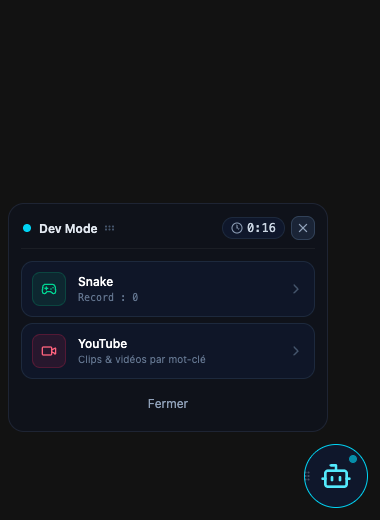
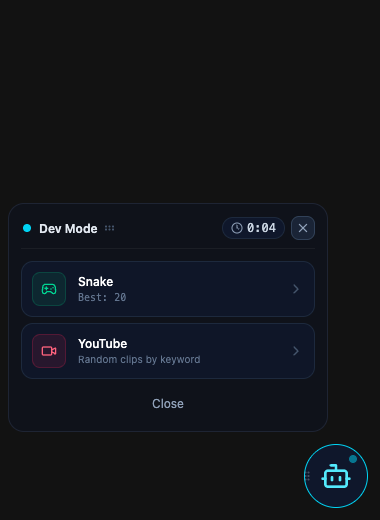
feat: translate all UI to English and simplify Tray menu to Quit only

diff --git a/src/components/YouTubePlayer.tsx b/src/components/YouTubePlayer.tsx
@@ -116,7 +116,7 @@ export const YouTubePlayer: React.FC<YouTubePlayerProps> = () => {
             type="text"
             value={query}
             onChange={(e) => setQuery(e.target.value)}
-            placeholder="Mot-clé vidéo (ex: lofi, chat, gaming)..."
+            placeholder="Search keyword (e.g. lofi, cats, gaming)..."
             className="w-full py-1.5 pl-8 pr-14 rounded-xl bg-slate-900 border border-slate-700/80 focus:border-slate-500 text-xs text-white placeholder:text-slate-500 focus:outline-none transition-all"
           />
           <Search className="w-3.5 h-3.5 text-slate-400 absolute left-2.5 pointer-events-none" />
@@ -151,7 +151,7 @@ export const YouTubePlayer: React.FC<YouTubePlayerProps> = () => {
         </div>
       </form>
 
-      {/* Raccourcis / Tags rapides */}
+      {/* Preset Topics */}
       <div className="w-full flex items-center space-x-1.5 mb-2 overflow-x-auto no-scrollbar py-0.5">
         {PRESET_TOPICS.map((preset) => {
           const isSelected = activeQuery === preset.query;
@@ -174,7 +174,7 @@ export const YouTubePlayer: React.FC<YouTubePlayerProps> = () => {
         })}
       </div>
 
-      {/* Lecteur Iframe YouTube (Muet par défaut) */}
+      {/* YouTube Iframe Player (Muted by default) */}
       <div className="w-full aspect-video rounded-xl overflow-hidden bg-black border border-slate-800 relative flex items-center justify-center">
         {videoId ? (
           <iframe
@@ -188,7 +188,7 @@ export const YouTubePlayer: React.FC<YouTubePlayerProps> = () => {
         ) : (
           <div className="flex flex-col items-center justify-center text-slate-500 space-y-1">
             <Video className="w-8 h-8 text-slate-600" />
-            <span className="text-xs">Tape un mot-clé</span>
+            <span className="text-xs">Type a keyword</span>
           </div>
         )}
 
@@ -198,27 +198,27 @@ export const YouTubePlayer: React.FC<YouTubePlayerProps> = () => {
           </div>
         )}
 
-        {/* Bouton Muet / Activer le son discret en bas à droite du lecteur */}
+        {/* Mute / Unmute Button */}
         <button
           onClick={toggleSound}
           className="absolute bottom-2 right-2 p-1.5 rounded-lg bg-slate-900/80 hover:bg-slate-800 border border-slate-700 text-slate-300 hover:text-white transition-all cursor-pointer shadow-md active:scale-90 flex items-center space-x-1 text-[10px]"
-          title={isMuted ? "Activer le son" : "Couper le son"}
+          title={isMuted ? "Unmute sound" : "Mute sound"}
         >
           {isMuted ? (
             <>
               <VolumeX className="w-3.5 h-3.5 text-slate-400" />
-              <span className="text-[9px] text-slate-400">Muet</span>
+              <span className="text-[9px] text-slate-400">Muted</span>
             </>
           ) : (
             <>
               <Volume2 className="w-3.5 h-3.5 text-emerald-400" />
-              <span className="text-[9px] text-emerald-300">Son actif</span>
+              <span className="text-[9px] text-emerald-300">Sound on</span>
             </>
           )}
         </button>
       </div>
 
-      {/* Contrôle rapide sous le lecteur */}
+      {/* Controls below player */}
       <div className="w-full mt-2 flex items-center justify-between px-1 text-[10px] text-slate-500">
         <span className="truncate max-w-[190px] text-slate-400 font-mono">
           {activeQuery}
@@ -228,10 +228,10 @@ export const YouTubePlayer: React.FC<YouTubePlayerProps> = () => {
           onClick={handleNextVideo}
           disabled={isLoading}
           className="flex items-center space-x-1 text-slate-400 hover:text-slate-200 transition-colors cursor-pointer disabled:opacity-50"
-          title="Tirer une autre vidéo au sort"
+          title="Pick another random video"
         >
           <RotateCcw className={`w-3 h-3 ${isLoading ? 'animate-spin' : ''}`} />
-          <span>Suivant</span>
+          <span>Random video</span>
         </button>
       </div>
     </div>

diff --git a/src/components/MiniGame.tsx b/src/components/MiniGame.tsx
@@ -57,7 +57,7 @@ export const MiniGame: React.FC<MiniGameProps> = ({
                 setView('hub');
               }}
               className="p-1 rounded-lg bg-slate-800/80 hover:bg-slate-700 border border-slate-700 text-slate-300 hover:text-white transition-all cursor-pointer"
-              title="Menu"
+              title="Back"
             >
               <ArrowLeft className="w-3.5 h-3.5" />
             </button>
@@ -67,7 +67,7 @@ export const MiniGame: React.FC<MiniGameProps> = ({
 
           <div className="flex items-center space-x-1.5">
             <span className="text-xs font-semibold text-slate-200">
-              {startPayload?.model || "IA"}
+              {startPayload?.model || "AI"}
             </span>
             <GripHorizontal className="w-3 h-3 text-slate-600" />
           </div>
@@ -85,14 +85,14 @@ export const MiniGame: React.FC<MiniGameProps> = ({
               onClose();
             }}
             className="p-1 rounded-lg bg-slate-800/80 hover:bg-slate-700 border border-slate-700 text-slate-400 hover:text-white transition-all cursor-pointer active:scale-95"
-            title="Fermer"
+            title="Close"
           >
             <X className="w-3.5 h-3.5" />
           </button>
         </div>
       </div>
 
-      {/* VUE 1 : MENU ACTIVITÉS */}
+      {/* VUE 1 : ACTIVITY HUB */}
       {view === 'hub' && (
         <div className="animate-in fade-in duration-150 space-y-1.5 py-0.5">
           {/* Option Snake */}
@@ -109,7 +109,7 @@ export const MiniGame: React.FC<MiniGameProps> = ({
                   Snake
                 </div>
                 <div className="text-[10px] text-slate-500 font-mono">
-                  Record : {snakeHighScore}
+                  Best: {snakeHighScore}
                 </div>
               </div>
             </div>
@@ -130,19 +130,19 @@ export const MiniGame: React.FC<MiniGameProps> = ({
                   YouTube
                 </div>
                 <div className="text-[10px] text-slate-500">
-                  Clips & vidéos par mot-clé
+                  Random clips by keyword
                 </div>
               </div>
             </div>
             <ChevronRight className="w-4 h-4 text-slate-600 group-hover:text-rose-400 transition-colors" />
           </button>
 
-          {/* Bouton Fermer */}
+          {/* Close button */}
           <button
             onClick={onClose}
             className="w-full mt-1 py-1.5 rounded-lg text-xs text-slate-400 hover:text-slate-200 transition-colors cursor-pointer text-center"
           >
-            Fermer
+            Close
           </button>
         </div>
       )}

diff --git a/src/components/SuccessBanner.tsx b/src/components/SuccessBanner.tsx
@@ -16,27 +16,27 @@ export const SuccessBanner: React.FC<SuccessBannerProps> = ({ stats, stopPayload
         <button
           onClick={onClose}
           className="absolute top-2.5 right-2.5 p-1 rounded-lg bg-slate-800/80 hover:bg-slate-700 border border-slate-700 text-slate-400 hover:text-white transition-all cursor-pointer"
-          title="Fermer"
+          title="Close"
         >
           <X className="w-3.5 h-3.5" />
         </button>
       )}
 
       <div className="flex items-center space-x-2.5 mb-2 pr-6">
-        <div className="p-1.5 rounded-lg bg-emerald-500/20 text-emerald-400 border border-emerald-500/30">
+        <div className="p-1.5 rounded-lg bg-emerald-500/10 text-emerald-400 border border-emerald-500/20">
           <CheckCircle2 className="w-5 h-5" />
         </div>
         <div>
           <h3 className="text-xs font-bold text-emerald-300">
-            Prêt
+            Ready
           </h3>
           <p className="text-[11px] text-slate-400 truncate max-w-[190px]">
-            {stopPayload?.summary || "Réponse disponible."}
+            {stopPayload?.summary || "AI response is ready."}
           </p>
         </div>
       </div>
 
-      <div className="p-2.5 rounded-xl bg-slate-900/80 border border-emerald-500/20 flex items-center justify-between">
+      <div className="p-2.5 rounded-xl bg-slate-900 border border-slate-800 flex items-center justify-between">
         <div>
           <span className="text-[10px] uppercase font-bold text-slate-500 block">Score</span>
           <span className="text-base font-bold text-emerald-300">
@@ -45,13 +45,13 @@ export const SuccessBanner: React.FC<SuccessBannerProps> = ({ stats, stopPayload
         </div>
 
         {isNewHighScore ? (
-          <div className="flex items-center space-x-1 px-2 py-0.5 rounded-md bg-amber-500/20 border border-amber-400/30 text-amber-300 text-[11px] font-bold">
+          <div className="flex items-center space-x-1 px-2 py-0.5 rounded-md bg-amber-500/10 border border-amber-400/20 text-amber-300 text-[11px] font-bold">
             <Trophy className="w-3 h-3 text-amber-400" />
-            <span>Nouveau Record</span>
+            <span>New Best</span>
           </div>
         ) : (
           <span className="text-[11px] text-slate-400 font-mono">
-            Record: {stats.highScore}
+            Best: {stats.highScore}
           </span>
         )}
       </div>

diff --git a/src/components/SnakeGame.tsx b/src/components/SnakeGame.tsx
@@ -242,7 +242,7 @@ export const SnakeGame: React.FC = () => {
         {isGameOver && (
           <div className="absolute inset-0 bg-slate-950/90 flex flex-col items-center justify-center p-2 text-center animate-in fade-in">
             <span className="text-xs font-bold text-rose-400 mb-0.5 uppercase tracking-wider">
-              Fin de partie
+              Game Over
             </span>
             <span className="text-xs text-slate-400 mb-2">{score} pts</span>
             <button
@@ -250,15 +250,15 @@ export const SnakeGame: React.FC = () => {
               className="flex items-center space-x-1 px-2.5 py-1 rounded-lg bg-slate-800 hover:bg-slate-700 border border-slate-700 text-slate-200 font-medium text-xs cursor-pointer transition-all active:scale-95"
             >
               <RefreshCw className="w-3 h-3" />
-              <span>Rejouer</span>
+              <span>Play Again</span>
             </button>
           </div>
         )}
       </div>
 
-      {/* Contrôles tactiles / souris */}
+      {/* Touch / Mouse controls */}
       <div className="mt-2 flex items-center justify-between w-full px-1">
-        <span className="text-[10px] text-slate-500 font-mono">Flèches / ZQSD</span>
+        <span className="text-[10px] text-slate-500 font-mono">Arrows / WASD</span>
 
         <div className="grid grid-cols-3 gap-1 w-20">
           <div />

diff --git a/src/hooks/useWaitMate.ts b/src/hooks/useWaitMate.ts
@@ -61,7 +61,7 @@ export function useWaitMate() {
   // Déclencher le début d'une session IA
   const handleStartAi = useCallback((payload?: StartPayload) => {
     if (successTimeoutRef.current) clearTimeout(successTimeoutRef.current);
-    setStartPayload(payload || { prompt: "Génération en cours...", model: "IA" });
+    setStartPayload(payload || { prompt: "Generating response...", model: "AI" });
     setStopPayload(null);
     setMood('active');
     updateWindowMode('active');

diff --git a/src/components/CompanionAvatar.tsx b/src/components/CompanionAvatar.tsx
@@ -47,7 +47,7 @@ export const CompanionAvatar: React.FC<CompanionAvatarProps> = ({
         onMouseDown={handleMouseDown}
         onMouseUp={handleMouseUp}
         className="relative flex items-center justify-center cursor-grab active:cursor-grabbing p-1"
-        title="Glisser pour déplacer • Cliquer pour ouvrir"
+        title="Drag to move • Click to open"
       >
         {/* Corps du compagnon (sans halo, sans bounce) */}
         <div

diff --git a/src-tauri/src/lib.rs b/src-tauri/src/lib.rs
@@ -2,12 +2,11 @@ mod server;
 mod watcher;
 
 use std::sync::atomic::Ordering;
-use server::{StartPayload, StopPayload};
 use watcher::WatcherState;
 use tauri::{
     menu::{Menu, MenuItem},
     tray::TrayIconBuilder,
-    Emitter, LogicalPosition, LogicalSize, Manager, State, WebviewWindow,
+    LogicalPosition, LogicalSize, Manager, State, WebviewWindow,
 };
 
 #[tauri::command]
@@ -262,22 +261,18 @@ pub fn run() {
                 }
             }
 
-            // 4. Masquer l'icône du Dock macOS (Mode barre des menus / accessoire flottant)
+            // 4. Hide from macOS Dock (Accessory Menu Bar companion)
             #[cfg(target_os = "macos")]
             app.set_activation_policy(tauri::ActivationPolicy::Accessory);
 
-            // 5. Créer le menu Tray dans la barre des menus macOS (en haut à droite)
-            let toggle_i = MenuItem::with_id(app, "toggle_companion", "✨ Ouvrir / Réduire WaitMate", true, None::<&str>)?;
-            let start_i = MenuItem::with_id(app, "test_start", "⚡ Déclencher mode Actif", true, None::<&str>)?;
-            let stop_i = MenuItem::with_id(app, "test_stop", "🛑 Passer en Veille", true, None::<&str>)?;
-            let quit_i = MenuItem::with_id(app, "quit", "❌ Quitter WaitMate", true, None::<&str>)?;
-            let menu = Menu::with_items(app, &[&toggle_i, &start_i, &stop_i, &quit_i])?;
+            // 5. Create clean Tray menu with only Quit WaitMate
+            let quit_i = MenuItem::with_id(app, "quit", "Quit WaitMate", true, None::<&str>)?;
+            let menu = Menu::with_items(app, &[&quit_i])?;
 
-            let app_handle_for_tray = app.handle().clone();
             let mut tray_builder = TrayIconBuilder::new()
                 .menu(&menu)
                 .show_menu_on_left_click(true)
-                .tooltip("WaitMate - Compagnon d'attente IA");
+                .tooltip("WaitMate - AI Waiting Companion");
 
             if let Some(icon) = app.default_window_icon() {
                 tray_builder = tray_builder.icon(icon.clone());
@@ -291,36 +286,6 @@ pub fn run() {
                 .on_menu_event(move |_app, event| match event.id.as_ref() {
                     "quit" => {
                         std::process::exit(0);
-                    }
-                    "toggle_companion" => {
-                        let _ = app_handle_for_tray.emit(
-                            "start-ai",
-                            &StartPayload {
-                                prompt: Some("Ouverture manuelle".to_string()),
-                                model: Some("WaitMate".to_string()),
-                                estimated_time: Some(30),
-                            },
-                        );
-                    }
-                    "test_start" => {
-                        let _ = app_handle_for_tray.emit(
-                            "start-ai",
-                            &StartPayload {
-                                prompt: Some("Test depuis la barre des menus".to_string()),
-                                model: Some("Test Mode".to_string()),
-                                estimated_time: Some(30),
-                            },
-                        );
-                    }
-                    "test_stop" => {
-                        let _ = app_handle_for_tray.emit(
-                            "stop-ai",
-                            &StopPayload {
-                                success: Some(true),
-                                summary: Some("Fin de génération".to_string()),
-                                auto_timeout: Some(false),
-                            },
-                        );
                     }
                     _ => {}
                 })

diff --git a/README.md b/README.md
@@ -22,12 +22,12 @@
       <td align="center" width="25%">
         <img src="assets/screenshot-idle.png" alt="Idle State" width="100%" />
         <br />
-        <strong>1. En veille (160×160)</strong>
+        <strong>1. Idle State (160×160)</strong>
       </td>
       <td align="center" width="25%">
-        <img src="assets/screenshot-menu.png" alt="Activity Menu" width="100%" />
+        <img src="assets/screenshot-menu.png" alt="Activity Hub" width="100%" />
         <br />
-        <strong>2. Hub d'activités</strong>
+        <strong>2. Activity Hub</strong>
       </td>
       <td align="center" width="25%">
         <img src="assets/screenshot-snake.png" alt="Snake Arcade" width="100%" />
@@ -35,9 +35,9 @@
         <strong>3. Snake Arcade</strong>
       </td>
       <td align="center" width="25%">
-        <img src="assets/screenshot-youtube.png" alt="YouTube Player" width="100%" />
+        <img src="assets/screenshot-youtube.png" alt="Ambient YouTube" width="100%" />
         <br />
-        <strong>4. YouTube Aléatoire</strong>
+        <strong>4. Ambient YouTube</strong>
       </td>
     </tr>
   </table>
